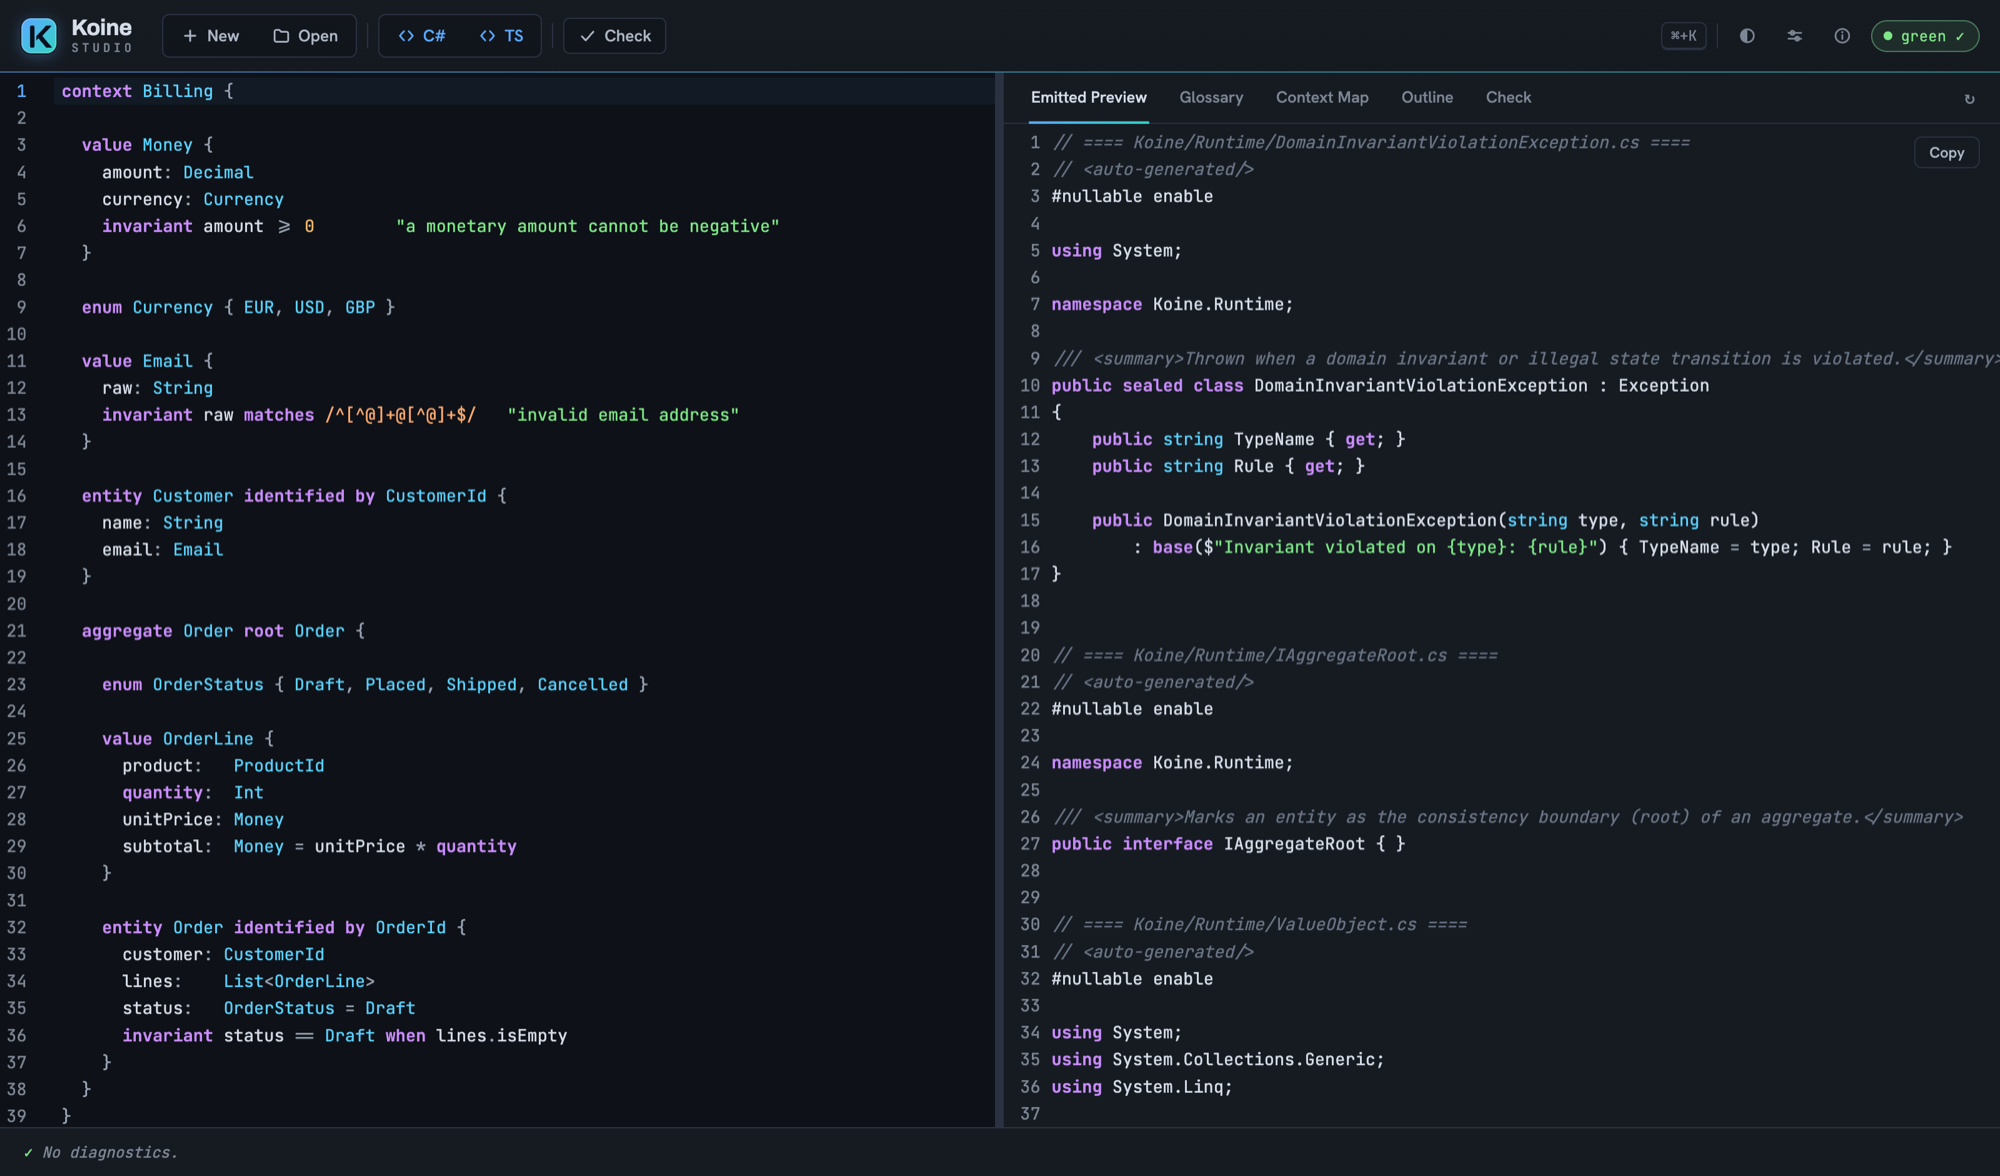
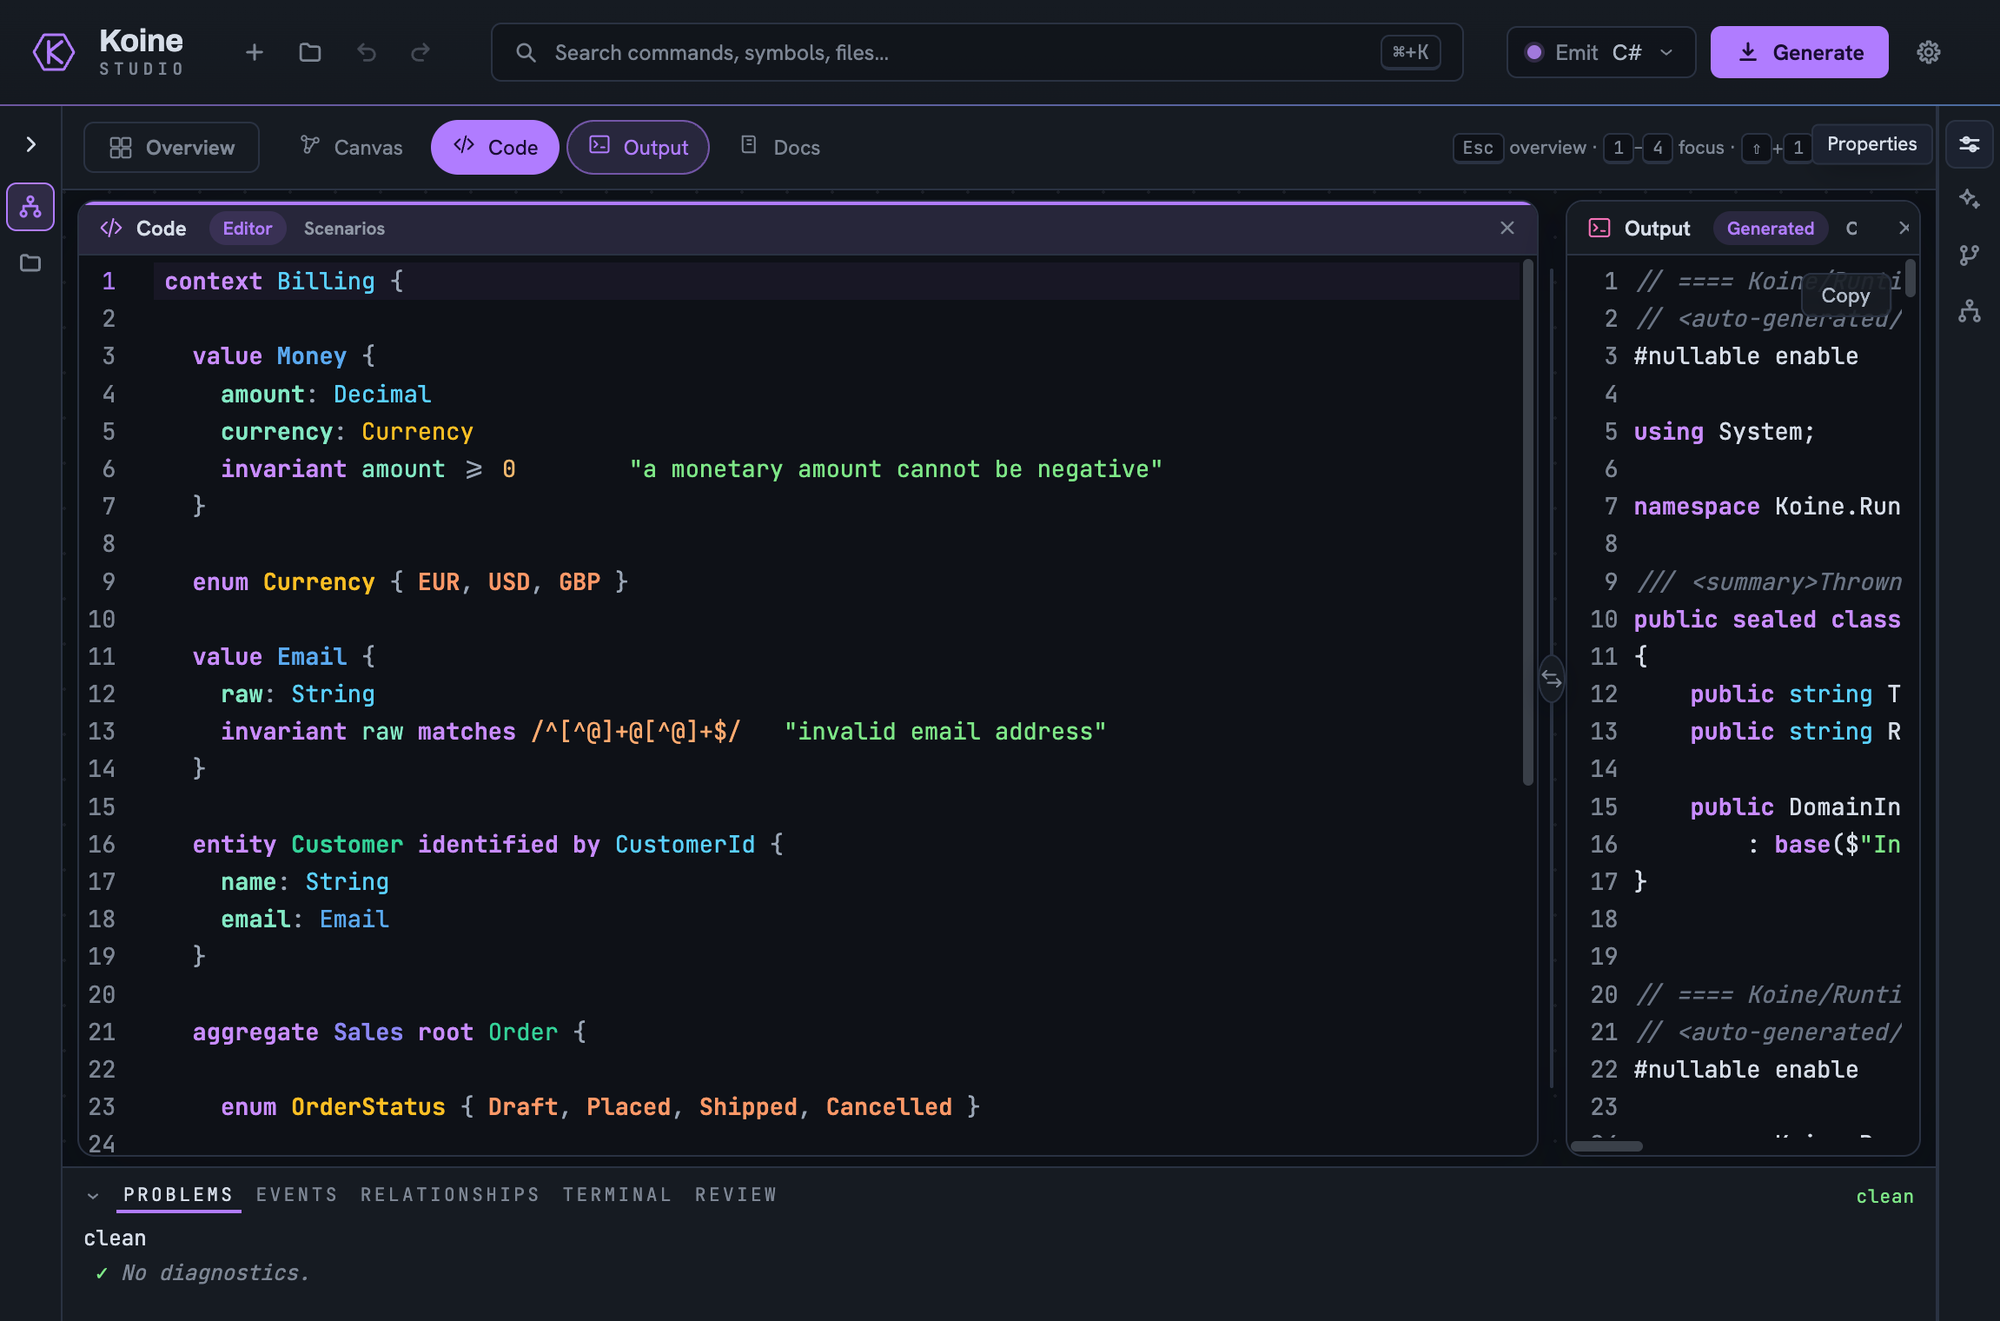
docs(readme): adopt the hexagon-κ brand mark and refresh the hero

diff --git a/README.md b/README.md
@@ -1,3 +1,13 @@
+<p align="center">
+  <!-- The Koine brand mark: a lowercase kappa (κ) inscribed in the ports-and-adapters hexagon.
+       GitHub ignores @media inside a referenced SVG, so <picture> flips the variant by theme:
+       the accent mark on a dark README, the ink mark on a light one. -->
+  <picture>
+    <source media="(prefers-color-scheme: dark)" srcset="assets/koine-mark.svg" />
+    <img src="assets/koine-mark-ink.svg" alt="Koine" width="96" height="96" />
+  </picture>
+</p>
+
 # Koine
 
 > Write your domain's **ubiquitous language** once, in `.koi` files. Koine compiles it to